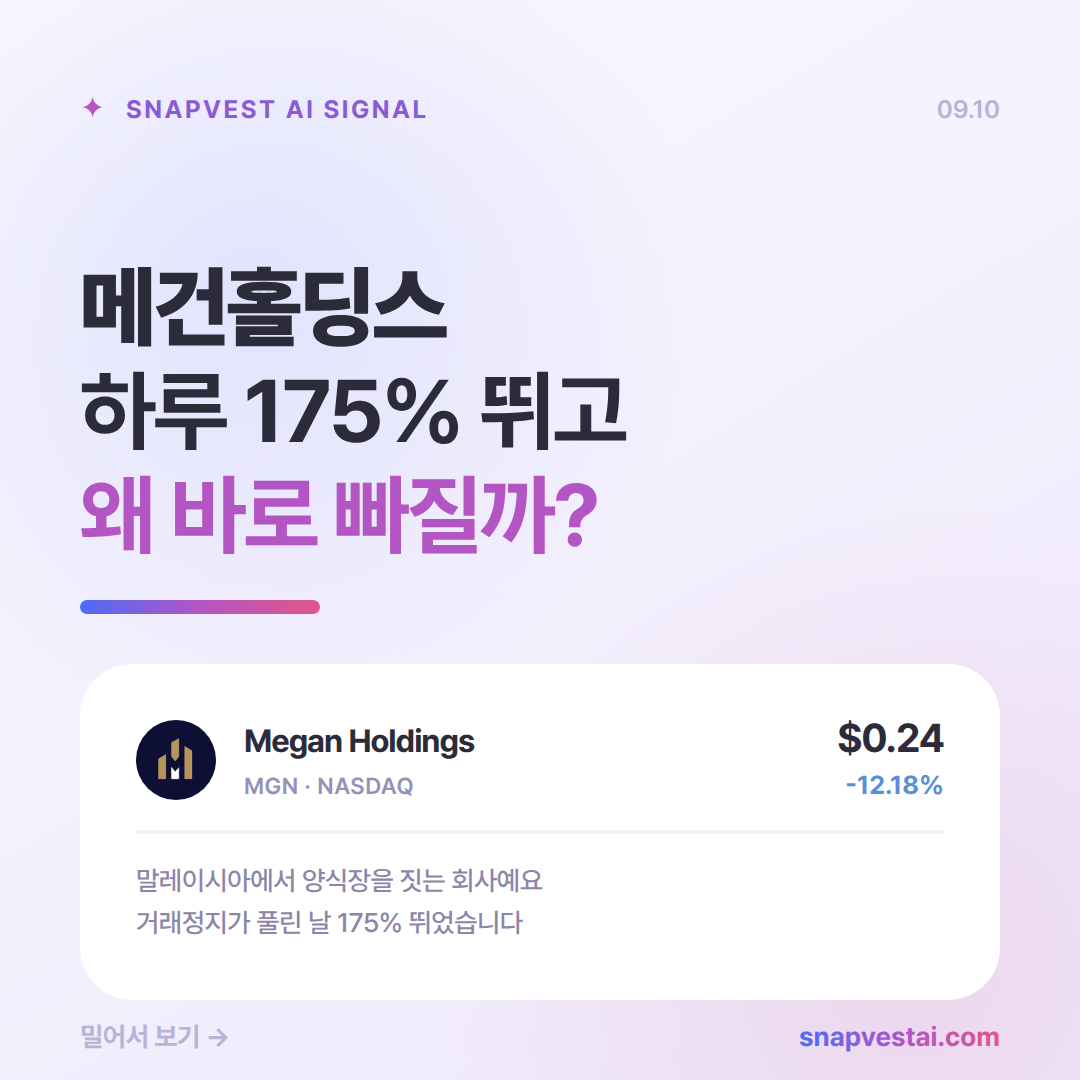
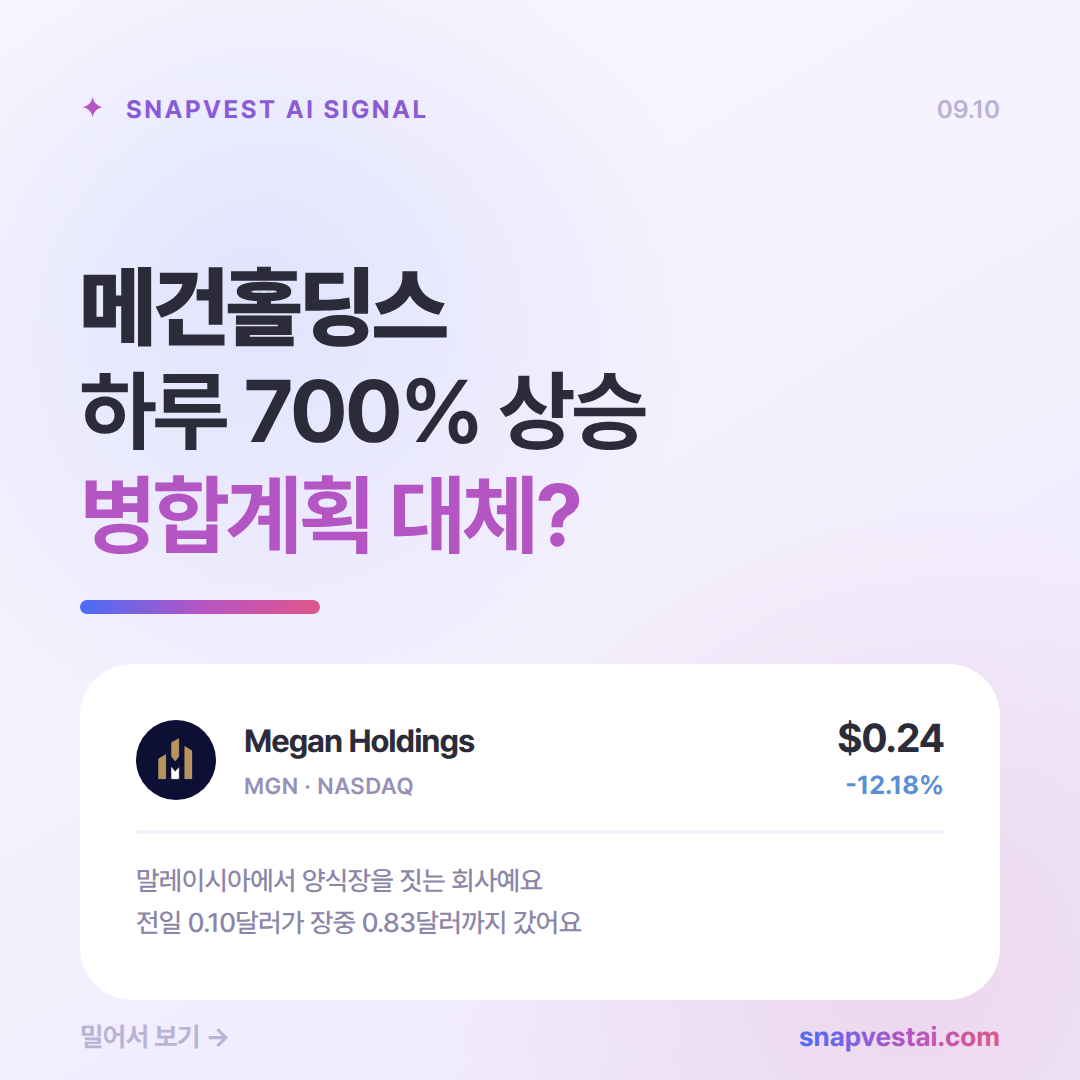
cardnews(MGN): 표지 문구 교체 · 4번을 받은 일봉 캡처로
표지를 '메건홀딩스 / 하루 700% 상승 / 병합계획 대체?' 로 바꿨다.
700% 는 장중 기준이다 — 9/8 종가 $0.1001 에서 9/9 장중 고가 $0.83 이면
+729.2% 이고, 종가 기준은 +174.70% 다. 두 값이 다르므로 근거가 같은
카드에서 보이게 cover_fact2 를 '전일 0.10달러가 장중 0.83달러까지
갔어요' 로 바꾸고, 4번 수치 3열도 전일종가/장중고가/종가로 잡았다.

4번은 직접 그린 봉을 걷어내고 받은 토스 일봉 화면을 넣었다. 원본이
폰 화면 전체(1206x2313)라 그대로면 전경이 240px 로 쪼그라든다.
가격 차트 구간만 잘라 비를 1.96 으로 맞췄다(슬롯 2.0). 거래량·MFI
패널은 넣으면 비가 1.57 로 떨어져 봉이 작아지므로 뺐다.

그 결과 MFI 98 / RSI 73 / %B 1.05 가 카드에서 빠졌다. 계산은 그대로
유효해서 SOURCES 에 남겨 두고 블로그에 넣는다.

Claude-Session: https://claude.ai/code/session_01RMiKh4knUhoRQtbEt8tjeA

Changed region(s): [[0.0611, 0.3361, 0.6111, 0.5194], [0.1222, 0.825, 0.55, 0.8861]]

diff --git a/cardnews/make_photos.py b/cardnews/make_photos.py
@@ -24,7 +24,10 @@ JOBS = [
     ("mgn-dashboard.jpg",  1000, 372, "photo-reason.jpg",  (0,  60, 1006, 600)),  # 3번 · 농장 관리 화면
     # 둘 다 원본 비가 슬롯보다 세로로 길어 그대로 넣으면 전경이 좁게 뜬다.
     # 위아래 여백만 잘라 비를 올렸다 (build 는 높이에 맞춰 확대한다).
-    # 4번 · 일봉 캡처 자리. 봉 데이터가 있으면 안 쓴다.
+    ("mgn-chart.jpg",       1000, 500, "photo-chart.jpg",   (0, 1041, 1195, 1650)),  # 4번 · 토스 일봉 캡처
+    # 4번 크롭 — 원본이 폰 화면 전체(1206x2313)라 그대로 넣으면 전경이 240px 로 쪼그라든다.
+    # 가격 차트 구간만 잘라 비를 1.96 으로 맞췄다 (슬롯 1000x500 = 2.0).
+    # 아래 거래량·MFI 패널은 뺐다 — 넣으면 봉이 다시 작아진다.
 ]
 
 # 1번 카드 표지 원형 로고 (config 의 logo). 셋 중 하나로 쓴다.

diff --git a/cardnews/SOURCES.md b/cardnews/SOURCES.md
@@ -78,7 +78,42 @@ $0.05 (+333.5%, 26.07.31 저점)     →  0.0557 × 4.335 = $0.2415
 검산하지 못했다. 잘린 표기가 `$1.3` 인데, 억 단위 표기라면 $1.3억 달러이고
 288M × 평균 $0.45 와 맞는다 — **가설이지 확인이 아니다.**
 
-## 지표 — 토스 자체 값과 교차검증했다
+## ★ 표지의 `하루 700% 상승` 은 장중 기준이다
+
+```
+9/8 종가        $0.1001  (거래정지로 9/4 종가가 그대로)
+9/9 장중 고가   $0.83
+  → 상승폭      +729.2%      ← 표지의 '700%' 는 이 값을 내려 잡은 것
+9/9 종가        $0.2750  (표기 등락률 +174.70%)
+  → 고가 대비   -66.9%
+```
+
+**종가 기준은 +174.70% 다.** 표지 숫자와 다르므로 같은 카드 안에서
+근거가 보이게 했다.
+
+▪ 1번 카드 아래 — `전일 0.10달러가 장중 0.83달러까지 갔어요`
+▪ 4번 카드 수치 3열 — `전일 종가 $0.10 · 9/9 장중고가 $0.83 · 9/9 종가 $0.27`
+▪ 3번 카드 본문 — `장중 0.83달러까지 갔다가 0.275달러로 마감`
+
+**글귀에서 `하루 700% 올랐다` 만 떼어 쓰지 않는다.** 반드시
+`장중 기준, 종가는 175%` 를 붙인다.
+
+## ⚠ 4번 카드를 캡처판으로 바꿨다
+
+직접 그린 일봉(candles + gauges)을 걷어내고 **대표님이 보내주신 토스
+일봉 화면**을 넣었다. `config.json` 에서 `candles` · `gauges` ·
+`gauge_note` 를 지우고 `photo_chart` · `chart_stats` · `chart_note` 로
+갈아 끼웠다.
+
+**크롭 기준** — 원본이 폰 화면 전체(1206×2313)라 그대로 넣으면 전경이
+240px 로 쪼그라든다. 가격 차트 구간만(y 1041~1650) 잘라 비를 1.96 으로
+맞췄다(슬롯 1000×500 = 2.0). **아래 거래량·MFI 패널은 뺐다** — 넣으면
+비가 1.57 로 떨어져 봉이 다시 작아진다.
+
+⚠ 그래서 **MFI 98 · RSI 73 · %B 1.05 가 카드에서 빠졌다.** 아래 계산은
+그대로 유효하니 블로그에는 넣는다.
+
+## 지표 — 토스 자체 값과 교차검증했다 (카드에는 안 들어감)
 
 **토스 화면 하단에 MFI(14) = 98.96 이 찍혀 있다.** 직접 계산한 값과 맞다.
 
